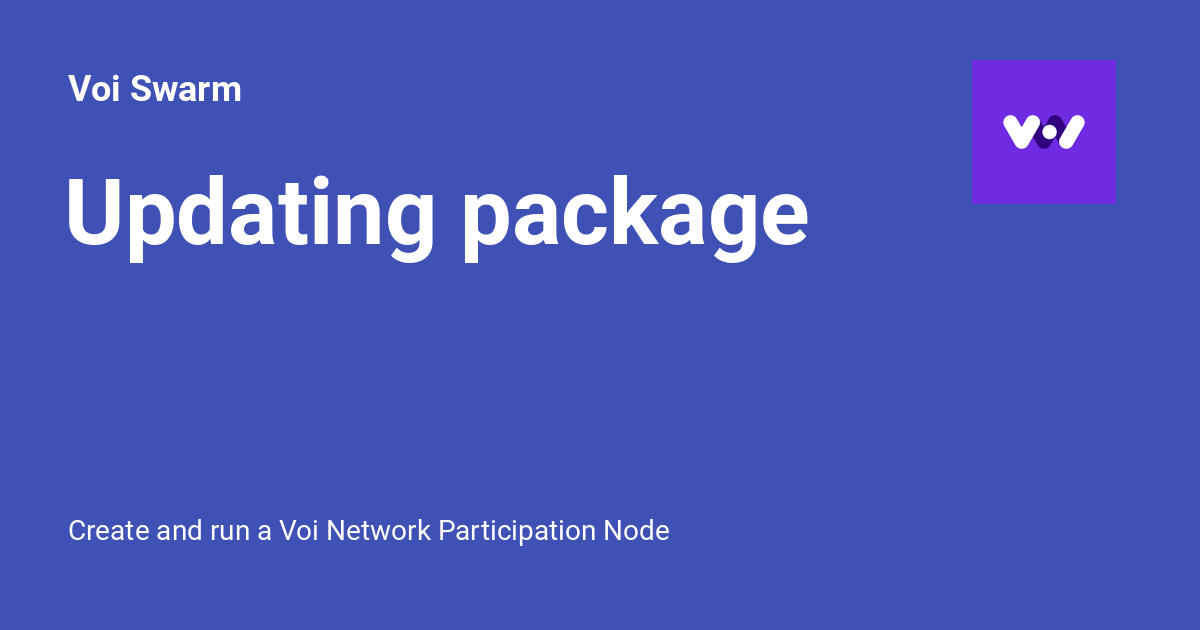
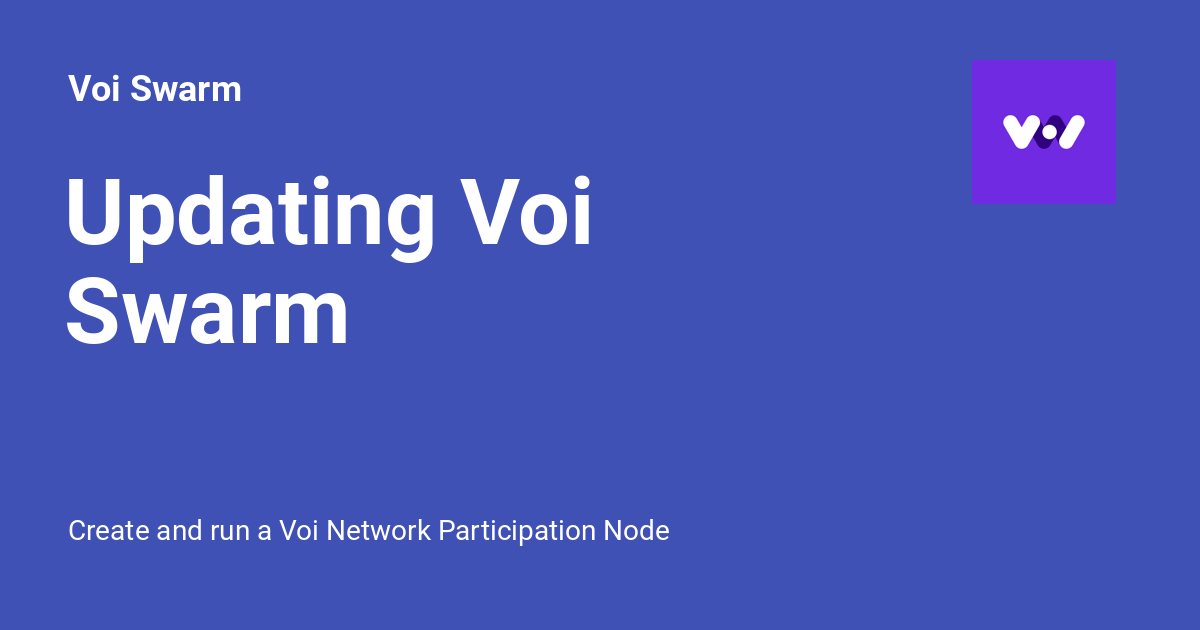
Deployed 61d5702 with MkDocs version: 1.5.3

Changed region(s): [[0.37, 0.2714, 0.6783, 0.4222], [0.0308, 0.4222, 0.3083, 0.5429]]

diff --git a/installation/installation/index.html b/installation/installation/index.html
@@ -600,7 +600,7 @@
         
   
   <span class="md-ellipsis">
-    Updating package
+    Updating Voi Swarm
   </span>
   
 
@@ -966,7 +966,7 @@ and where we have automated as much as possible.</p>
 <div class="highlight"><pre><span></span><code>/bin/bash<span class="w"> </span>-c<span class="w"> </span><span class="s2">&quot;</span><span class="k">$(</span>curl<span class="w"> </span>-fsSL<span class="w"> </span>https://raw.githubusercontent.com/VoiNetwork/voi-swarm/main/install.sh<span class="k">)</span><span class="s2">&quot;</span>
 </code></pre></div>
 <h2 id="using-an-existing-accountaddress-with-mnemonic">Using an Existing Account/Address with Mnemonic</h2>
-<p>For installing with an existing account or mnemonic to Voi Swarm, use this method.
+<p>For installing with an existing account or mnemonic, use this method.
 After installation, <a href="../../updating/telemetry/#getting-your-telemetry-status">update your name and GUID</a>
 for health rewards if setting up on a new server.</p>
 <p>To import your account and set up a new Voi node, run the following command:</p>
@@ -999,7 +999,7 @@ for health rewards if setting up on a new server.</p>
     <span class="md-icon" title="Last update">
       <svg xmlns="http://www.w3.org/2000/svg" viewBox="0 0 24 24"><path d="M21 13.1c-.1 0-.3.1-.4.2l-1 1 2.1 2.1 1-1c.2-.2.2-.6 0-.8l-1.3-1.3c-.1-.1-.2-.2-.4-.2m-1.9 1.8-6.1 6V23h2.1l6.1-6.1-2.1-2M12.5 7v5.2l4 2.4-1 1L11 13V7h1.5M11 21.9c-5.1-.5-9-4.8-9-9.9C2 6.5 6.5 2 12 2c5.3 0 9.6 4.1 10 9.3-.3-.1-.6-.2-1-.2s-.7.1-1 .2C19.6 7.2 16.2 4 12 4c-4.4 0-8 3.6-8 8 0 4.1 3.1 7.5 7.1 7.9l-.1.2v1.8Z"/></svg>
     </span>
-    <span class="git-revision-date-localized-plugin git-revision-date-localized-plugin-date">February 3, 2024</span>
+    <span class="git-revision-date-localized-plugin git-revision-date-localized-plugin-date">February 4, 2024</span>
   </span>
 
     

diff --git a/updating/swarm-update/index.html b/updating/swarm-update/index.html
@@ -24,7 +24,7 @@
     
     
       
-        <title>Updating package - Voi Swarm</title>
+        <title>Updating Voi Swarm - Voi Swarm</title>
       
     
     
@@ -71,7 +71,7 @@
       
         <meta  property="og:type"  content="website" >
       
-        <meta  property="og:title"  content="Updating package - Voi Swarm" >
+        <meta  property="og:title"  content="Updating Voi Swarm - Voi Swarm" >
       
         <meta  property="og:description"  content="Create and run a Voi Network Participation Node" >
       
@@ -87,7 +87,7 @@
       
         <meta  name="twitter:card"  content="summary_large_image" >
       
-        <meta  name="twitter:title"  content="Updating package - Voi Swarm" >
+        <meta  name="twitter:title"  content="Updating Voi Swarm - Voi Swarm" >
       
         <meta  name="twitter:description"  content="Create and run a Voi Network Participation Node" >
       
@@ -147,7 +147,7 @@
         <div class="md-header__topic" data-md-component="header-topic">
           <span class="md-ellipsis">
             
-              Updating package
+              Updating Voi Swarm
             
           </span>
         </div>
@@ -551,7 +551,7 @@
           
   
   <span class="md-ellipsis">
-    Updating package
+    Updating Voi Swarm
   </span>
   
 
@@ -562,7 +562,7 @@
         
   
   <span class="md-ellipsis">
-    Updating package
+    Updating Voi Swarm
   </span>
   
 

diff --git a/404.html b/404.html
@@ -503,7 +503,7 @@
         
   
   <span class="md-ellipsis">
-    Updating package
+    Updating Voi Swarm
   </span>
   
 

diff --git a/cli-tools/index.html b/cli-tools/index.html
@@ -540,7 +540,7 @@
         
   
   <span class="md-ellipsis">
-    Updating package
+    Updating Voi Swarm
   </span>
   
 

diff --git a/getting-started/introduction/index.html b/getting-started/introduction/index.html
@@ -591,7 +591,7 @@
         
   
   <span class="md-ellipsis">
-    Updating package
+    Updating Voi Swarm
   </span>
   
 

diff --git a/index.html b/index.html
@@ -605,7 +605,7 @@
         
   
   <span class="md-ellipsis">
-    Updating package
+    Updating Voi Swarm
   </span>
   
 

diff --git a/installation/installation-advanced/index.html b/installation/installation-advanced/index.html
@@ -600,7 +600,7 @@
         
   
   <span class="md-ellipsis">
-    Updating package
+    Updating Voi Swarm
   </span>
   
 

diff --git a/installation/prerequisites/index.html b/installation/prerequisites/index.html
@@ -591,7 +591,7 @@
         
   
   <span class="md-ellipsis">
-    Updating package
+    Updating Voi Swarm
   </span>
   
 

diff --git a/installation/system-requirements/index.html b/installation/system-requirements/index.html
@@ -642,7 +642,7 @@
         
   
   <span class="md-ellipsis">
-    Updating package
+    Updating Voi Swarm
   </span>
   
 

diff --git a/installation/uninstall/index.html b/installation/uninstall/index.html
@@ -591,7 +591,7 @@
         
   
   <span class="md-ellipsis">
-    Updating package
+    Updating Voi Swarm
   </span>
   
 

diff --git a/migrating/index.html b/migrating/index.html
@@ -540,7 +540,7 @@
         
   
   <span class="md-ellipsis">
-    Updating package
+    Updating Voi Swarm
   </span>
   
 

diff --git a/notification-guides/pushbullet/index.html b/notification-guides/pushbullet/index.html
@@ -540,7 +540,7 @@
         
   
   <span class="md-ellipsis">
-    Updating package
+    Updating Voi Swarm
   </span>
   
 
